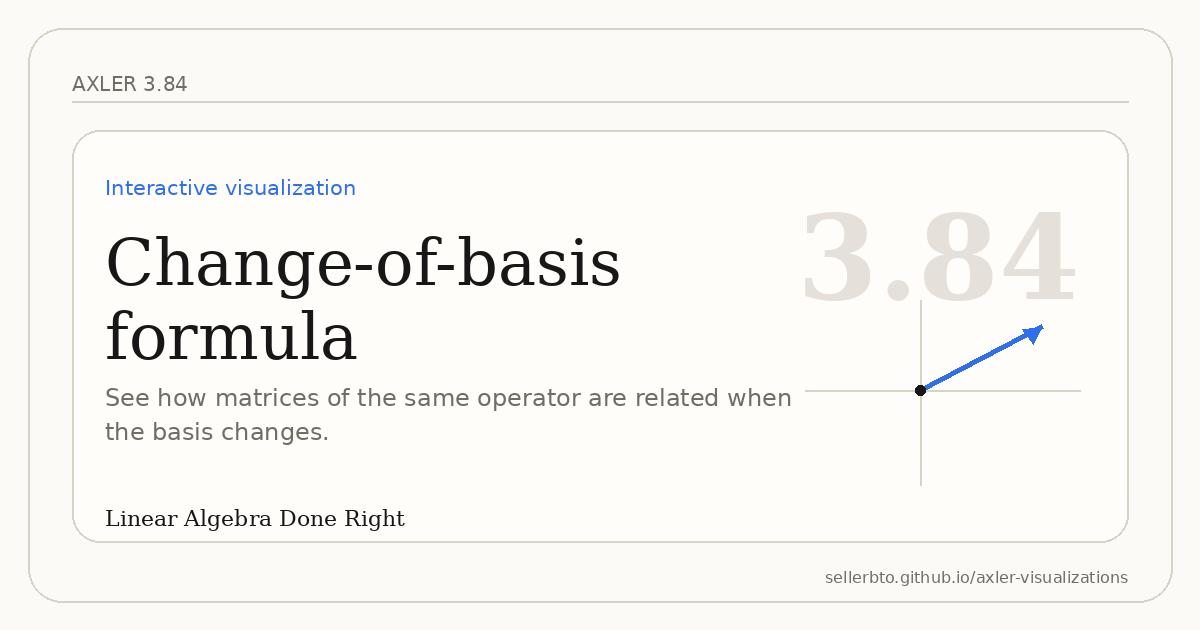
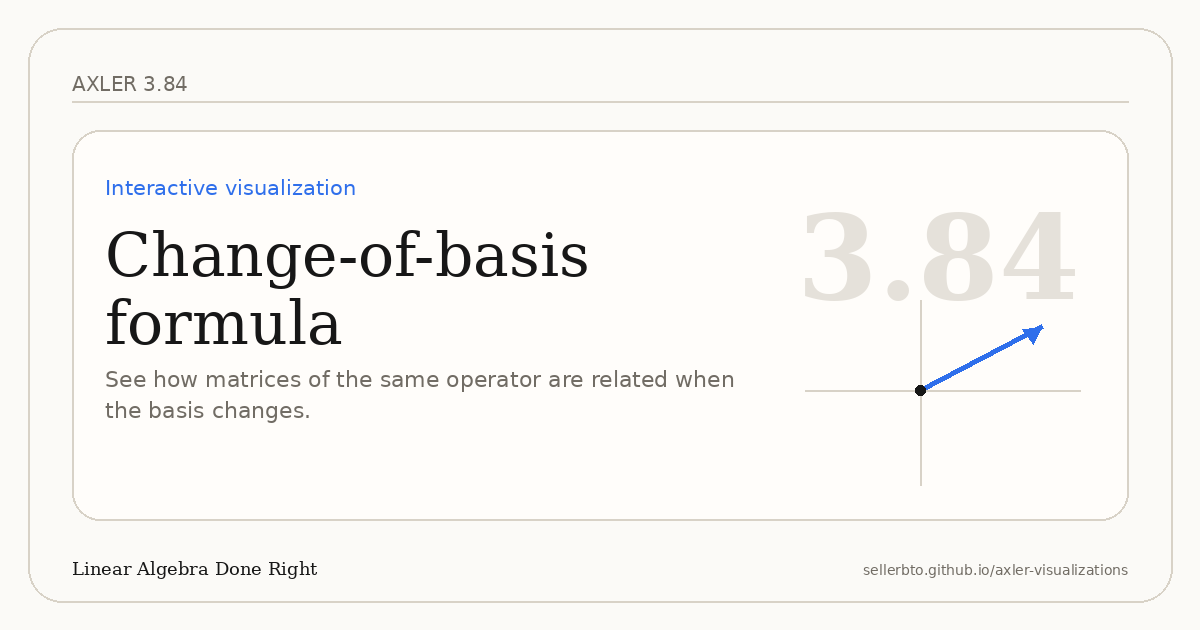
Simplify social preview config

Changed region(s): [[0.0925, 0.3619, 0.6475, 0.7238], [0.0617, 0.8143, 0.9558, 0.9349]]

diff --git a/scripts/generate_social_previews.py b/scripts/generate_social_previews.py
@@ -1,14 +1,15 @@
 #!/usr/bin/env python3
-"""Generate consistent Open Graph preview PNGs from one strict JSON config.
+"""Generate consistent Open Graph preview PNGs from theorem number + title.
 
-Every public page with an ``og:image`` entry must be represented in
-``social-previews.json``. The renderer is deliberately generic: page-specific
-copy is data, while layout and styling live only in this script.
+The theorem config intentionally contains only two fields: ``number`` and
+``title``. Folder paths, image names, labels, and layout are derived here.
+The homepage preview is fixed site chrome and does not need a config entry.
 """
 
 from __future__ import annotations
 
 import json
+import re
 from html.parser import HTMLParser
 from pathlib import Path
 from urllib.parse import urlparse
@@ -27,7 +28,11 @@ MUTED = "#716c64"
 LINE = "#d8d2c7"
 ACCENT = "#2f6feb"
 
-REQUIRED_FIELDS = {"path", "image", "label", "title", "subtitle"}
+ENTRY_FIELDS = {"number", "title"}
+NUMBER_RE = re.compile(r"^\d+(?:\.\d+)+$")
+HOME_TITLE = "Axler Visualizations"
+HOME_LABEL = "AXLER COMPANION"
+HOME_IMAGE = "home.png"
 
 
 class HeadParser(HTMLParser):
@@ -51,61 +56,82 @@ def page_og_image(path: Path) -> str | None:
     return parser.meta.get("og:image")
 
 
-def public_pages() -> list[Path]:
-    pages = [ROOT / "index.html"]
-    pages.extend(sorted(ROOT.glob("*/index.html")))
-    return [page for page in pages if page.exists() and page_og_image(page)]
+def slug_from_number(number: str) -> str:
+    return number.replace(".", "-")
 
 
-def load_config() -> list[dict[str, str]]:
+def theorem_path(number: str) -> str:
+    return f"{slug_from_number(number)}/index.html"
+
+
+def theorem_image(number: str) -> str:
+    return f"{slug_from_number(number)}.png"
+
+
+def load_theorems() -> list[dict[str, str]]:
     raw = json.loads(CONFIG_PATH.read_text(encoding="utf-8"))
-    entries = raw.get("pages")
+    entries = raw.get("theorems")
     if not isinstance(entries, list) or not entries:
-        raise SystemExit("social-previews.json must contain a non-empty 'pages' array")
+        raise SystemExit("social-previews.json must contain a non-empty 'theorems' array")
 
-    seen_paths: set[str] = set()
-    seen_images: set[str] = set()
+    seen: set[str] = set()
     normalized: list[dict[str, str]] = []
     for entry in entries:
         if not isinstance(entry, dict):
-            raise SystemExit("Every social preview config entry must be an object")
-        missing = REQUIRED_FIELDS - set(entry)
-        if missing:
-            raise SystemExit(f"Preview config entry is missing fields: {sorted(missing)}")
-        values = {key: str(entry[key]).strip() for key in REQUIRED_FIELDS}
-        if any(not value for value in values.values()):
-            raise SystemExit(f"Preview config values must be non-empty: {entry}")
-        if values["path"] in seen_paths:
-            raise SystemExit(f"Duplicate preview path: {values['path']}")
-        if values["image"] in seen_images:
-            raise SystemExit(f"Duplicate preview image: {values['image']}")
-        seen_paths.add(values["path"])
-        seen_images.add(values["image"])
-        normalized.append(values)
+            raise SystemExit("Every theorem preview entry must be an object")
+        fields = set(entry)
+        if fields != ENTRY_FIELDS:
+            raise SystemExit(
+                "Every theorem preview entry must contain exactly 'number' and 'title'; "
+                f"got {sorted(fields)}"
+            )
+        number = str(entry["number"]).strip()
+        title = str(entry["title"]).strip()
+        if not NUMBER_RE.fullmatch(number):
+            raise SystemExit(f"Invalid theorem number: {number!r}")
+        if not title:
+            raise SystemExit(f"Theorem {number} has an empty title")
+        if number in seen:
+            raise SystemExit(f"Duplicate theorem number: {number}")
+        seen.add(number)
+        normalized.append({"number": number, "title": title})
     return normalized
 
 
+def public_theorem_pages() -> set[str]:
+    pages: set[str] = set()
+    for page in sorted(ROOT.glob("*/index.html")):
+        if page_og_image(page):
+            pages.add(page.relative_to(ROOT).as_posix())
+    return pages
+
+
 def validate_config(entries: list[dict[str, str]]) -> None:
-    by_path = {entry["path"]: entry for entry in entries}
-    page_paths = {page.relative_to(ROOT).as_posix() for page in public_pages()}
-    config_paths = set(by_path)
+    home = ROOT / "index.html"
+    home_og = page_og_image(home)
+    if not home_og or Path(urlparse(home_og).path).name != HOME_IMAGE:
+        raise SystemExit(f"index.html must expose og:image ending in {HOME_IMAGE!r}")
 
-    missing = page_paths - config_paths
-    stale = config_paths - page_paths
+    expected_paths = {theorem_path(entry["number"]) for entry in entries}
+    actual_paths = public_theorem_pages()
+    missing = actual_paths - expected_paths
+    stale = expected_paths - actual_paths
     if missing:
-        raise SystemExit(f"Pages with og:image missing from social-previews.json: {sorted(missing)}")
+        raise SystemExit(f"Theorem pages missing from social-previews.json: {sorted(missing)}")
     if stale:
-        raise SystemExit(f"Stale social preview config entries: {sorted(stale)}")
+        raise SystemExit(f"Configured theorem pages do not exist or lack og:image: {sorted(stale)}")
 
-    for rel_path, entry in by_path.items():
-        page = ROOT / rel_path
-        og_image = page_og_image(page)
+    for entry in entries:
+        number = entry["number"]
+        path = ROOT / theorem_path(number)
+        og_image = page_og_image(path)
         assert og_image is not None
         actual_name = Path(urlparse(og_image).path).name
-        if actual_name != entry["image"]:
+        expected_name = theorem_image(number)
+        if actual_name != expected_name:
             raise SystemExit(
-                f"{rel_path}: og:image points to {actual_name!r}, "
-                f"but social-previews.json declares {entry['image']!r}"
+                f"{path.relative_to(ROOT)}: og:image points to {actual_name!r}; "
+                f"expected derived name {expected_name!r}"
             )
 
 
@@ -151,60 +177,62 @@ def wrap_text(draw: ImageDraw.ImageDraw, text: str, font: ImageFont.ImageFont, m
     return lines
 
 
-def fit_title(draw: ImageDraw.ImageDraw, title: str, max_width: int, max_lines: int = 3) -> tuple[ImageFont.ImageFont, list[str]]:
-    for size in range(64, 35, -2):
+def fit_title(
+    draw: ImageDraw.ImageDraw,
+    title: str,
+    context: str,
+    max_width: int = 650,
+    max_lines: int = 3,
+    max_height: int = 225,
+) -> tuple[ImageFont.ImageFont, list[str], int]:
+    """Fit the only variable text block; fail instead of producing overlap."""
+    for size in range(68, 37, -2):
         font = find_font(serif=True, bold=False, size=size)
         lines = wrap_text(draw, title, font, max_width)
-        if len(lines) <= max_lines:
-            return font, lines
-    font = find_font(serif=True, bold=False, size=36)
-    return font, wrap_text(draw, title, font, max_width)[:max_lines]
+        line_height = size + 10
+        if len(lines) <= max_lines and len(lines) * line_height <= max_height:
+            return font, lines, line_height
+    raise SystemExit(
+        f"{context}: title does not fit the fixed preview safe area; shorten the title"
+    )
 
 
-def rounded(draw: ImageDraw.ImageDraw, box: tuple[int, int, int, int], radius: int, fill: str, outline: str | None = None, width: int = 1) -> None:
+def rounded(
+    draw: ImageDraw.ImageDraw,
+    box: tuple[int, int, int, int],
+    radius: int,
+    fill: str,
+    outline: str | None = None,
+    width: int = 1,
+) -> None:
     draw.rounded_rectangle(box, radius=radius, fill=fill, outline=outline, width=width)
 
 
-def watermark_from_label(label: str) -> str:
-    parts = label.strip().split()
-    if parts and any(char.isdigit() for char in parts[-1]):
-        return parts[-1]
-    return "A"
-
-
-def render_preview(entry: dict[str, str]) -> Path:
+def render_preview(*, label: str, title: str, watermark: str, image_name: str, context: str) -> Path:
     image = Image.new("RGB", SIZE, BG)
     draw = ImageDraw.Draw(image)
 
     rounded(draw, (28, 28, 1172, 602), 34, BG, LINE, 2)
-    draw.text((72, 72), entry["label"], font=find_font(False, False, 20), fill=MUTED)
+    draw.text((72, 72), label, font=find_font(False, False, 20), fill=MUTED)
     draw.line((72, 101, 1128, 101), fill=LINE, width=2)
 
-    rounded(draw, (72, 130, 1128, 542), 28, PAPER, LINE, 2)
-
-    # One generic renderer for every page. Only config data changes.
+    # Fixed zones make overlap impossible by construction: variable title text
+    # stays left of x=755 and above y=470; motif starts at x=805; footer is below y=540.
+    rounded(draw, (72, 130, 1128, 520), 28, PAPER, LINE, 2)
     draw.text((105, 175), "Interactive visualization", font=find_font(False, False, 21), fill=ACCENT)
-    title_font, title_lines = fit_title(draw, entry["title"], 700)
+
+    title_font, title_lines, line_height = fit_title(draw, title, context)
     y = 225
-    line_height = title_font.size + 10 if hasattr(title_font, "size") else 52
     for line in title_lines:
         draw.text((105, y), line, font=title_font, fill=INK)
         y += line_height
 
-    subtitle_font = find_font(False, False, 24)
-    subtitle_lines = wrap_text(draw, entry["subtitle"], subtitle_font, 690)[:3]
-    y += 10
-    for line in subtitle_lines:
-        draw.text((105, y), line, font=subtitle_font, fill=MUTED)
-        y += 34
-
-    mark = watermark_from_label(entry["label"])
-    mark_font = find_font(True, True, 116 if len(mark) <= 4 else 92)
-    mark_box = draw.textbbox((0, 0), mark, font=mark_font)
+    mark_font = find_font(True, True, 116 if len(watermark) <= 4 else 92)
+    mark_box = draw.textbbox((0, 0), watermark, font=mark_font)
     mark_w = mark_box[2] - mark_box[0]
-    draw.text((1080 - mark_w, 190), mark, font=mark_font, fill="#e5e1da")
+    draw.text((1080 - mark_w, 190), watermark, font=mark_font, fill="#e5e1da")
 
-    # Quiet generic mathematical motif; never theorem-specific.
+    # Generic motif shared by every preview; never theorem-specific.
     x0, y0 = 920, 390
     draw.line((805, y0, 1080, y0), fill=LINE, width=2)
     draw.line((x0, 300, x0, 485), fill=LINE, width=2)
@@ -212,24 +240,46 @@ def render_preview(entry: dict[str, str]) -> Path:
     draw.polygon([(1042, 326), (1022, 329), (1033, 344)], fill=ACCENT)
     draw.ellipse((x0 - 5, y0 - 5, x0 + 5, y0 + 5), fill=INK)
 
-    draw.text((105, 505), "Linear Algebra Done Right", font=find_font(True, False, 22), fill=INK)
+    draw.text((72, 558), "Linear Algebra Done Right", font=find_font(True, False, 18), fill=INK)
     footer = "sellerbto.github.io/axler-visualizations"
-    footer_font = find_font(False, False, 16)
+    footer_font = find_font(False, False, 14)
     footer_box = draw.textbbox((0, 0), footer, font=footer_font)
     footer_w = footer_box[2] - footer_box[0]
-    draw.text((1128 - footer_w, 568), footer, font=footer_font, fill=MUTED)
+    draw.text((1128 - footer_w, 562), footer, font=footer_font, fill=MUTED)
 
     OUT_DIR.mkdir(parents=True, exist_ok=True)
-    output = OUT_DIR / entry["image"]
+    output = OUT_DIR / image_name
     image.save(output, format="PNG", optimize=True)
     return output
 
 
 def main() -> None:
-    entries = load_config()
+    entries = load_theorems()
     validate_config(entries)
+
+    outputs = [
+        render_preview(
+            label=HOME_LABEL,
+            title=HOME_TITLE,
+            watermark="A",
+            image_name=HOME_IMAGE,
+            context="index.html",
+        )
+    ]
+
     for entry in entries:
-        output = render_preview(entry)
+        number = entry["number"]
+        outputs.append(
+            render_preview(
+                label=f"AXLER {number}",
+                title=entry["title"],
+                watermark=number,
+                image_name=theorem_image(number),
+                context=theorem_path(number),
+            )
+        )
+
+    for output in outputs:
         print(output.relative_to(ROOT))
 
 

diff --git a/AGENTS.md b/AGENTS.md
@@ -30,7 +30,7 @@ Keep the repository organized as a small static site for GitHub Pages.
 /
 ├── index.html                      # main visualization menu
 ├── AGENTS.md                       # repository/workflow instructions
-├── social-previews.json            # source data for generated social previews
+├── social-previews.json            # theorem number/title source data
 ├── scripts/
 │   └── generate_social_previews.py # generic 1200×630 preview renderer
 ├── assets/
@@ -64,29 +64,34 @@ Rules:
 
 ## Adding a new visualization
 
-When adding a visualization:
+When adding a numbered Axler visualization:
 
 1. Create a new folder with its own `index.html`.
 2. Follow `skills/math-visualization/SKILL.md` when designing the interaction.
 3. Add the visualization to the root menu.
 4. Add both English and Russian interface copy.
-5. Add one entry to `social-previews.json` with the strict fields `path`, `image`, `label`, `title`, and `subtitle`.
+5. Add one entry to `social-previews.json` containing only `number` and `title`.
 6. Add a back link to the root menu.
 7. Preserve the selected language when navigating between the menu and the visualization.
 8. Re-read all changed files after writing them and verify the expected version is on `main`.
 
-A new visualization is not complete until it is reachable from the root menu and represented in `social-previews.json`.
+The preview generator derives the folder path, image filename, and `AXLER <number>` label from the theorem number. For example, `3.84` maps to `3-84/index.html` and `assets/social/3-84.png`.
+
+A new numbered visualization is not complete until it is reachable from the root menu and represented in `social-previews.json`.
 
 ## Social previews
 
 Social preview PNGs are generated artifacts, not hand-designed per-page files.
 
 - Do not manually edit or upload files in `assets/social/`.
-- `social-previews.json` is the only page-specific input to the preview renderer.
-- Keep preview entries declarative: `path`, `image`, `label`, `title`, and `subtitle` only.
-- `scripts/generate_social_previews.py` must use one generic layout for every page; do not add theorem-specific rendering branches or hard-coded theorem lists.
+- For theorem pages, `social-previews.json` contains exactly two page-specific fields: `number` and `title`.
+- Do not add subtitles, paths, image names, labels, layout hints, or theorem-specific drawing data to the config.
+- The homepage preview is fixed site chrome and is generated automatically; it has no config entry.
+- `scripts/generate_social_previews.py` derives theorem paths, image filenames, and labels from `number` and uses one generic layout for every page.
+- The renderer keeps variable title text in a fixed safe region separate from the decorative motif and footer. It automatically reduces title size to fit and fails CI instead of producing an overlapping image if a title cannot fit.
+- Do not add theorem-specific rendering branches or hard-coded theorem lists to the renderer.
 - `.github/workflows/social-previews.yml` regenerates previews on `main` and commits changed PNGs with `github-actions[bot]`.
-- The generator validates that every public page exposing `og:image` has a matching config entry and that the configured image filename matches the page metadata.
+- The generator validates that every public numbered page exposing `og:image` has a matching theorem entry and that each page points to the image filename derived from its theorem number.
 
 ## Bilingual support
 
